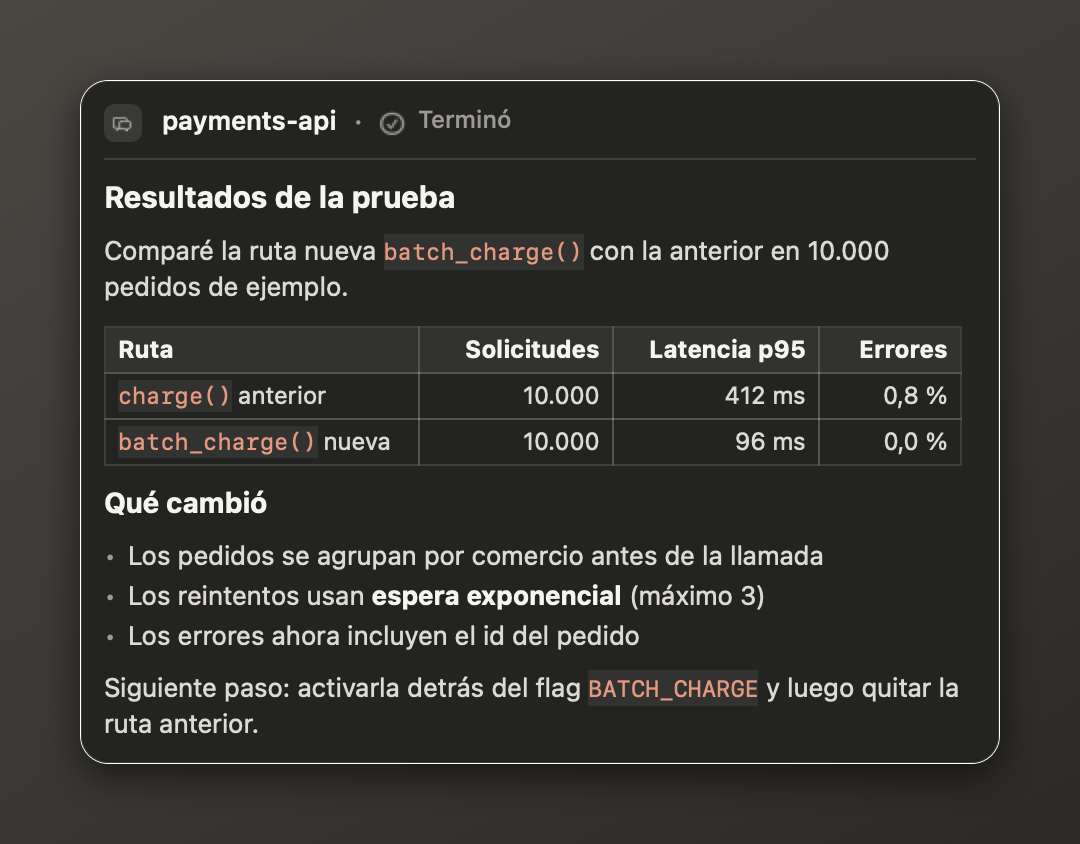
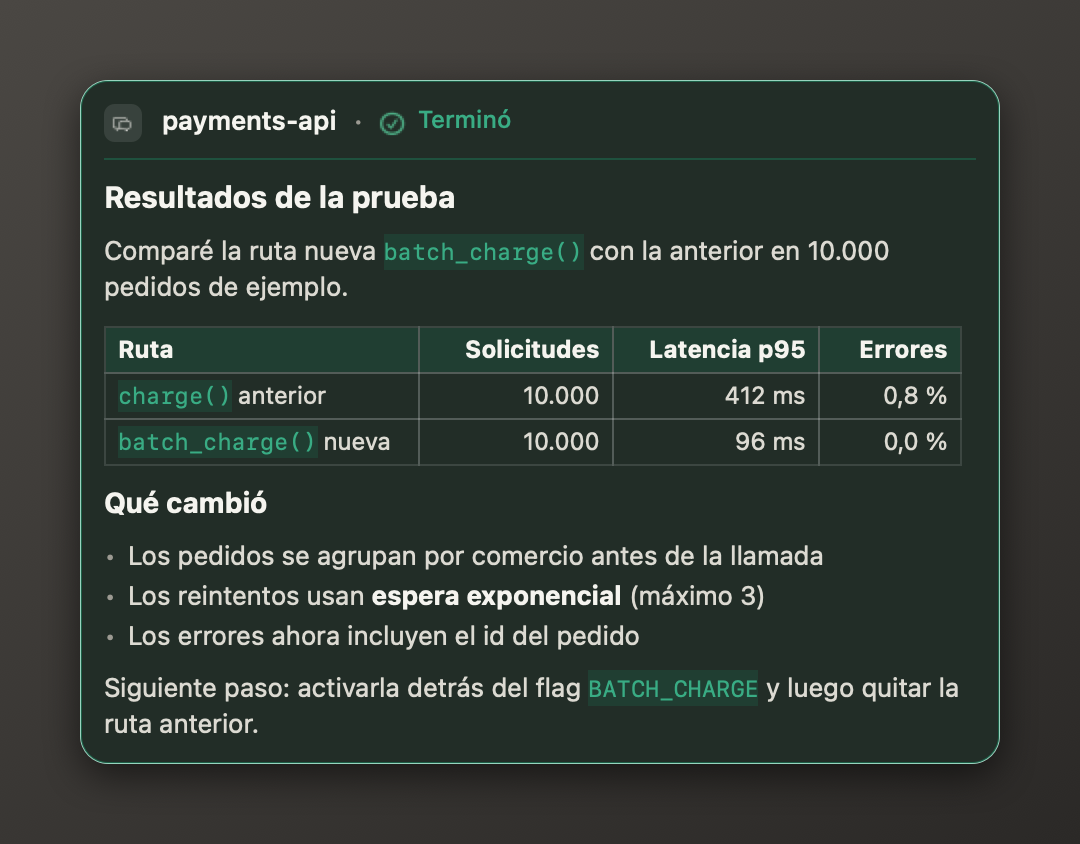
Popups: 'color' is the default style; the neutral look is now called 'neutral'
popup.style accepts color (default), neutral or mono; any other value, including the old 'default', means color. Sample pictures re-rendered in the color look; the style matrix is color / neutral / mono.

diff --git a/src/popup/main.swift b/src/popup/main.swift
@@ -154,7 +154,7 @@ struct Input {
     var fontSize = 13.0
     var stickyNeedsYou = true
     var isPrivate = false
-    var style = Style.standard
+    var style = Style.color
     var compactLines = 2
     var focus = FocusTarget()
     var transcriptSize: UInt64?
@@ -259,7 +259,7 @@ let increaseContrast = accessibility.accessibilityDisplayShouldIncreaseContrast
 let reduceMotion = accessibility.accessibilityDisplayShouldReduceMotion
 
 enum Style: String {
-    case standard = "default", color, mono
+    case color, neutral, mono
 }
 
 struct Palette {
@@ -332,7 +332,7 @@ struct Palette {
                                  dark: NSColor(hex: kind.hue.dark, alpha: 0.08)),
                 cardBorderWidth: (kind.needsYou ? 1.25 : 1) + extra)
 
-        case .standard:
+        case .neutral:
             let attentionLight = NSColor(hex: 0xB8532F)
             let attentionDark = NSColor(hex: 0xE8977A)
             let border = dynamic(light: NSColor(hex: 0x000000, alpha: borderAlpha),
@@ -788,7 +788,7 @@ final class Popup: NSObject, NSApplicationDelegate {
 
     var screen: NSScreen!
     var screenID = 0
-    var palette = Palette.make(style: .standard, kind: .done)
+    var palette = Palette.make(style: .color, kind: .done)
     var panel: Panel!
     var card: CardView!
     var summary: NSTextField!

diff --git a/src/menubar/main.swift b/src/menubar/main.swift
@@ -55,13 +55,13 @@ func safeName(_ s: String) -> String {
 
 // MARK: - Localization
 
-/// popup.style from config.json: "default", "color" or "mono". Mono means grayscale only.
+/// popup.style from config.json: "color" (the default), "neutral" or "mono". Mono means grayscale only.
 func configStyle() -> String {
     if let data = FileManager.default.contents(atPath: ccHome + "/config.json"),
        let o = (try? JSONSerialization.jsonObject(with: data)) as? [String: Any],
        let popup = o["popup"] as? [String: Any],
        let style = popup["style"] as? String { return style.lowercased() }
-    return "default"
+    return "color"
 }
 
 struct Strings {

diff --git a/tests/test_notify.py b/tests/test_notify.py
@@ -514,6 +514,26 @@ class SessionStateEvents(HookTestCase):
         self.assertEqual(self.session("sess-stop-0004")["project"], "Home")
 
 
+class PopupStyle(HookTestCase):
+    def style_of(self, config):
+        self.hook(config).handle("notification", payload("payload_permission.json"))
+        (popup,) = self.queued()
+        for name in os.listdir(os.path.join(self.home, "state", "queue")):  # empty the queue for the next call
+            os.remove(os.path.join(self.home, "state", "queue", name))
+        return popup["style"]
+
+    def test_default_config_is_color(self):
+        self.assertEqual(self.style_of({"language": "en"}), "color")
+
+    def test_neutral_and_mono_pass_through(self):
+        self.assertEqual(self.style_of({"language": "en", "popup": {"style": "neutral"}}), "neutral")
+        self.assertEqual(self.style_of({"language": "en", "popup": {"style": "mono"}}), "mono")
+
+    def test_unknown_values_fall_back_to_color(self):
+        for value in ("default", "nonsense", "", None, 3, ["mono"]):
+            self.assertEqual(self.style_of({"language": "en", "popup": {"style": value}}), "color", repr(value))
+
+
 class Housekeeping(HookTestCase):
     def test_old_queue_files_are_deleted(self):
         paths = notify.Paths(self.home)

diff --git a/hooks/notify.py b/hooks/notify.py
@@ -51,7 +51,7 @@ DEFAULT_CONFIG = {
         "sticky_needs_you": True,
         "font_size": 13,
         "private": False,
-        "style": "default",       # "default" | "color" | "mono"
+        "style": "color",         # "color" | "neutral" | "mono"; anything else means "color"
         "compact_lines": 2,       # lines shown by older popups in the stack
     },
     "sounds": {
@@ -713,7 +713,7 @@ class Hook(object):
             "max_height_ratio": popup_cfg["max_height_ratio"], "max_stacked": popup_cfg["max_stacked"],
             "sticky_needs_you": popup_cfg["sticky_needs_you"], "font_size": popup_cfg["font_size"],
             "private": private,
-            "style": popup_cfg["style"] if popup_cfg["style"] in ("default", "color", "mono") else "default",
+            "style": popup_cfg["style"] if popup_cfg["style"] in ("color", "neutral", "mono") else "color",
             "compact_lines": popup_cfg["compact_lines"],
         }
         subtitle = tr(self.lang, "label_" + kind)

diff --git a/README.md b/README.md
@@ -37,7 +37,7 @@ session, and a menu bar icon tracks all your sessions. Local only, built on Clau
 | | Feature | In one line |
 |---|---|---|
 | 1 | **Popups** | Claude's last message, rendered as Markdown, when it finishes, asks permission, asks a question, or an agent needs you. |
-| 2 | **Styles** | `default`, `color` (one hue per kind) or `mono` (grayscale). |
+| 2 | **Styles** | `color` (one hue per kind, the default), `neutral` or `mono` (grayscale). |
 | 3 | **Long messages and stacking** | Long messages scroll; older popups shrink to two lines. |
 | 4 | **Jump to the terminal** | Click → the right VS Code window and the exact integrated terminal. |
 | 5 | **Menu bar** | Every session at a glance: needs you · wrote to you · thinking. |
@@ -52,28 +52,28 @@ session, and a menu bar icon tracks all your sessions. Local only, built on Clau
 
 ## 1. Popups
 
-A translucent card at the top-right of your screen. Each kind of message has its own icon and label. The ones that
-**need you** (permission, question, agent) are tinted, have a thin full border, and **stay until you answer**.
+A translucent card at the top-right of your screen. Each kind of message has its own icon, label and hue. The ones that
+**need you** (permission, question, agent) get a stronger border and **stay until you answer**.
 "Done" fades after 60 s (paused while you hover or are away).
 
 | Done | Needs permission |
 |---|---|
-| <picture><source media="(prefers-color-scheme: dark)" srcset="docs/img/popup-style-default-done-dark.png"><img src="docs/img/popup-style-default-done-light.png" width="400" alt="Done popup with a heading, a table and a list"></picture> | <picture><source media="(prefers-color-scheme: dark)" srcset="docs/img/popup-style-default-permission-dark.png"><img src="docs/img/popup-style-default-permission-light.png" width="400" alt="Popup asking permission to run a Bash command"></picture> |
+| <picture><source media="(prefers-color-scheme: dark)" srcset="docs/img/popup-style-color-done-dark.png"><img src="docs/img/popup-style-color-done-light.png" width="400" alt="Done popup with a heading, a table and a list"></picture> | <picture><source media="(prefers-color-scheme: dark)" srcset="docs/img/popup-style-color-permission-dark.png"><img src="docs/img/popup-style-color-permission-light.png" width="400" alt="Popup asking permission to run a Bash command"></picture> |
 | **Question** | **A background agent asks** |
-| <picture><source media="(prefers-color-scheme: dark)" srcset="docs/img/popup-style-default-question-dark.png"><img src="docs/img/popup-style-default-question-light.png" width="400" alt="Popup where Claude asks which database to use"></picture> | <picture><source media="(prefers-color-scheme: dark)" srcset="docs/img/popup-style-default-agent-dark.png"><img src="docs/img/popup-style-default-agent-light.png" width="400" alt="Popup where a reviewer agent asks for a decision"></picture> |
+| <picture><source media="(prefers-color-scheme: dark)" srcset="docs/img/popup-style-color-question-dark.png"><img src="docs/img/popup-style-color-question-light.png" width="400" alt="Popup where Claude asks which database to use"></picture> | <picture><source media="(prefers-color-scheme: dark)" srcset="docs/img/popup-style-color-agent-dark.png"><img src="docs/img/popup-style-color-agent-light.png" width="400" alt="Popup where a reviewer agent asks for a decision"></picture> |
 
 Renders headings, **bold**, *italics*, `code`, code blocks, lists, quotes and real tables with aligned columns.
 Images here follow your GitHub light/dark theme; the popup follows macOS.
 
 ## 2. Styles
 
-Choose with `"popup": { "style": "default" }` in the [config](#configure).
+Choose with `"popup": { "style": "color" }` in the [config](#configure).
 
-| `default` | `color` | `mono` |
+| `color` (default) | `neutral` | `mono` |
 |---|---|---|
-| <picture><source media="(prefers-color-scheme: dark)" srcset="docs/img/popup-style-default-permission-dark.png"><img src="docs/img/popup-style-default-permission-light.png" width="280" alt="Default style, permission"></picture> | <picture><source media="(prefers-color-scheme: dark)" srcset="docs/img/popup-style-color-permission-dark.png"><img src="docs/img/popup-style-color-permission-light.png" width="280" alt="Color style, permission: orange tint"></picture> | <picture><source media="(prefers-color-scheme: dark)" srcset="docs/img/popup-style-mono-permission-dark.png"><img src="docs/img/popup-style-mono-permission-light.png" width="280" alt="Mono style, permission: grayscale"></picture> |
-| <picture><source media="(prefers-color-scheme: dark)" srcset="docs/img/popup-style-default-done-dark.png"><img src="docs/img/popup-style-default-done-light.png" width="280" alt="Default style, done"></picture> | <picture><source media="(prefers-color-scheme: dark)" srcset="docs/img/popup-style-color-done-dark.png"><img src="docs/img/popup-style-color-done-light.png" width="280" alt="Color style, done: green tint"></picture> | <picture><source media="(prefers-color-scheme: dark)" srcset="docs/img/popup-style-mono-done-dark.png"><img src="docs/img/popup-style-mono-done-light.png" width="280" alt="Mono style, done: grayscale"></picture> |
-| Neutral card; only messages that need you get the attention color. | One hue per kind: green done, orange permission, blue question, violet agent. | Grayscale only; urgency shows through a filled icon, bold label and stronger border. |
+| <picture><source media="(prefers-color-scheme: dark)" srcset="docs/img/popup-style-color-permission-dark.png"><img src="docs/img/popup-style-color-permission-light.png" width="280" alt="Color style, permission: orange tint"></picture> | <picture><source media="(prefers-color-scheme: dark)" srcset="docs/img/popup-style-neutral-permission-dark.png"><img src="docs/img/popup-style-neutral-permission-light.png" width="280" alt="Neutral style, permission"></picture> | <picture><source media="(prefers-color-scheme: dark)" srcset="docs/img/popup-style-mono-permission-dark.png"><img src="docs/img/popup-style-mono-permission-light.png" width="280" alt="Mono style, permission: grayscale"></picture> |
+| <picture><source media="(prefers-color-scheme: dark)" srcset="docs/img/popup-style-color-done-dark.png"><img src="docs/img/popup-style-color-done-light.png" width="280" alt="Color style, done: green tint"></picture> | <picture><source media="(prefers-color-scheme: dark)" srcset="docs/img/popup-style-neutral-done-dark.png"><img src="docs/img/popup-style-neutral-done-light.png" width="280" alt="Neutral style, done"></picture> | <picture><source media="(prefers-color-scheme: dark)" srcset="docs/img/popup-style-mono-done-dark.png"><img src="docs/img/popup-style-mono-done-light.png" width="280" alt="Mono style, done: grayscale"></picture> |
+| One hue per kind: green done, orange permission, blue question, violet agent. | Neutral card; only messages that need you get the attention color. | Grayscale only; urgency shows through a filled icon, bold label and stronger border. |
 
 ## 3. Long messages and several at once
 
@@ -201,7 +201,7 @@ all). Changes apply from the next notification.
 ```json
 {
   "language": "auto",
-  "popup":  { "style": "default", "seconds": 60, "width": 460, "max_height_ratio": 0.6,
+  "popup":  { "style": "color", "seconds": 60, "width": 460, "max_height_ratio": 0.6,
               "compact_lines": 2, "font_size": 13, "sticky_needs_you": true, "private": false },
   "sounds": {
     "done":       { "sound": "Glass",     "volume": 0.5, "only_when_away": true, "min_turn_seconds": 15 },
@@ -217,7 +217,7 @@ all). Changes apply from the next notification.
 | Group | Key | What it does |
 |---|---|---|
 | General | `language` | `auto` (follows macOS), `en` or `es`. |
-| Popup look | `style` | `default`, `color` or `mono`. |
+| Popup look | `style` | `color` (default), `neutral` or `mono`. Anything else falls back to `color`. |
 | | `width`, `font_size` | Card width (pt) and text size. |
 | | `max_height_ratio` | Fraction of the screen height before the text scrolls. |
 | | `compact_lines` | Lines kept by older popups in the stack. |

diff --git a/README.es.md b/README.es.md
@@ -37,7 +37,7 @@ VS Code** de esa sesión, y un ícono en la barra de menú sigue todas tus sesio
 | | Función | En una línea |
 |---|---|---|
 | 1 | **Avisos** | El último mensaje de Claude, con formato, cuando termina, pide permiso, pregunta algo o un agente te necesita. |
-| 2 | **Estilos** | `default`, `color` (un color por tipo) o `mono` (grises). |
+| 2 | **Estilos** | `color` (un color por tipo, por defecto), `neutral` o `mono` (grises). |
 | 3 | **Mensajes largos y pila** | Los largos tienen scroll; los anteriores se achican a dos líneas. |
 | 4 | **Ir a la terminal** | Un clic → la ventana correcta de VS Code y la terminal exacta. |
 | 5 | **Barra de menú** | Todas las sesiones de un vistazo: te necesita · te escribió · pensando. |
@@ -52,28 +52,28 @@ VS Code** de esa sesión, y un ícono en la barra de menú sigue todas tus sesio
 
 ## 1. Avisos
 
-Una tarjeta translúcida arriba a la derecha. Cada tipo de mensaje tiene su ícono y su etiqueta. Los que **te
-necesitan** (permiso, pregunta, agente) llevan color y un borde fino completo, y **se quedan hasta que respondes**.
+Una tarjeta translúcida arriba a la derecha. Cada tipo de mensaje tiene su ícono, su etiqueta y su color. Los que **te
+necesitan** (permiso, pregunta, agente) llevan un borde más marcado y **se quedan hasta que respondes**.
 Los de "terminó" se van a los 60 s (la cuenta se pausa si tienes el mouse encima o no estás frente a la compu).
 
 | Terminó | Pide permiso |
 |---|---|
 | <picture><source media="(prefers-color-scheme: dark)" srcset="docs/img/popup-table-es-dark.png"><img src="docs/img/popup-table-es-light.png" width="400" alt="Aviso en español: terminó, con un título y una tabla"></picture> | <picture><source media="(prefers-color-scheme: dark)" srcset="docs/img/popup-permission-es-dark.png"><img src="docs/img/popup-permission-es-light.png" width="400" alt="Aviso en español: pide permiso para correr un comando de Bash"></picture> |
 | **Pregunta** | **Un agente en segundo plano pregunta** |
-| <picture><source media="(prefers-color-scheme: dark)" srcset="docs/img/popup-style-default-question-dark.png"><img src="docs/img/popup-style-default-question-light.png" width="400" alt="Aviso donde Claude pregunta qué base de datos usar"></picture> | <picture><source media="(prefers-color-scheme: dark)" srcset="docs/img/popup-style-default-agent-dark.png"><img src="docs/img/popup-style-default-agent-light.png" width="400" alt="Aviso donde un agente revisor pide una decisión"></picture> |
+| <picture><source media="(prefers-color-scheme: dark)" srcset="docs/img/popup-style-color-question-dark.png"><img src="docs/img/popup-style-color-question-light.png" width="400" alt="Aviso donde Claude pregunta qué base de datos usar"></picture> | <picture><source media="(prefers-color-scheme: dark)" srcset="docs/img/popup-style-color-agent-dark.png"><img src="docs/img/popup-style-color-agent-light.png" width="400" alt="Aviso donde un agente revisor pide una decisión"></picture> |
 
 Muestra títulos, **negritas**, *cursivas*, `código`, bloques de código, listas, citas y tablas de verdad con columnas
 alineadas. Las imágenes siguen el tema claro u oscuro de tu GitHub; el aviso sigue el de macOS.
 
 ## 2. Estilos
 
-Se elige con `"popup": { "style": "default" }` en la [configuración](#configurar).
+Se elige con `"popup": { "style": "color" }` en la [configuración](#configurar).
 
-| `default` | `color` | `mono` |
+| `color` (por defecto) | `neutral` | `mono` |
 |---|---|---|
-| <picture><source media="(prefers-color-scheme: dark)" srcset="docs/img/popup-style-default-permission-dark.png"><img src="docs/img/popup-style-default-permission-light.png" width="280" alt="Estilo default, pide permiso"></picture> | <picture><source media="(prefers-color-scheme: dark)" srcset="docs/img/popup-style-color-permission-dark.png"><img src="docs/img/popup-style-color-permission-light.png" width="280" alt="Estilo color, pide permiso: tinte naranja"></picture> | <picture><source media="(prefers-color-scheme: dark)" srcset="docs/img/popup-style-mono-permission-dark.png"><img src="docs/img/popup-style-mono-permission-light.png" width="280" alt="Estilo mono, pide permiso: grises"></picture> |
-| <picture><source media="(prefers-color-scheme: dark)" srcset="docs/img/popup-style-default-done-dark.png"><img src="docs/img/popup-style-default-done-light.png" width="280" alt="Estilo default, terminó"></picture> | <picture><source media="(prefers-color-scheme: dark)" srcset="docs/img/popup-style-color-done-dark.png"><img src="docs/img/popup-style-color-done-light.png" width="280" alt="Estilo color, terminó: tinte verde"></picture> | <picture><source media="(prefers-color-scheme: dark)" srcset="docs/img/popup-style-mono-done-dark.png"><img src="docs/img/popup-style-mono-done-light.png" width="280" alt="Estilo mono, terminó: grises"></picture> |
-| Tarjeta neutra; solo lo que te necesita lleva el color de atención. | Un color por tipo: verde terminó, naranja permiso, azul pregunta, violeta agente. | Solo grises; lo urgente se nota por el ícono relleno, la negrita y un borde más marcado. |
+| <picture><source media="(prefers-color-scheme: dark)" srcset="docs/img/popup-style-color-permission-dark.png"><img src="docs/img/popup-style-color-permission-light.png" width="280" alt="Estilo color, pide permiso: tinte naranja"></picture> | <picture><source media="(prefers-color-scheme: dark)" srcset="docs/img/popup-style-neutral-permission-dark.png"><img src="docs/img/popup-style-neutral-permission-light.png" width="280" alt="Estilo neutral, pide permiso"></picture> | <picture><source media="(prefers-color-scheme: dark)" srcset="docs/img/popup-style-mono-permission-dark.png"><img src="docs/img/popup-style-mono-permission-light.png" width="280" alt="Estilo mono, pide permiso: grises"></picture> |
+| <picture><source media="(prefers-color-scheme: dark)" srcset="docs/img/popup-style-color-done-dark.png"><img src="docs/img/popup-style-color-done-light.png" width="280" alt="Estilo color, terminó: tinte verde"></picture> | <picture><source media="(prefers-color-scheme: dark)" srcset="docs/img/popup-style-neutral-done-dark.png"><img src="docs/img/popup-style-neutral-done-light.png" width="280" alt="Estilo neutral, terminó"></picture> | <picture><source media="(prefers-color-scheme: dark)" srcset="docs/img/popup-style-mono-done-dark.png"><img src="docs/img/popup-style-mono-done-light.png" width="280" alt="Estilo mono, terminó: grises"></picture> |
+| Un color por tipo: verde terminó, naranja permiso, azul pregunta, violeta agente. | Tarjeta neutra; solo lo que te necesita lleva el color de atención. | Solo grises; lo urgente se nota por el ícono relleno, la negrita y un borde más marcado. |
 
 ## 3. Mensajes largos y varios a la vez
 
@@ -202,7 +202,7 @@ las tiene todas). Los cambios se aplican desde el siguiente aviso.
 ```json
 {
   "language": "es",
-  "popup":  { "style": "default", "seconds": 60, "width": 460, "max_height_ratio": 0.6,
+  "popup":  { "style": "color", "seconds": 60, "width": 460, "max_height_ratio": 0.6,
               "compact_lines": 2, "font_size": 13, "sticky_needs_you": true, "private": false },
   "sounds": {
     "done":       { "sound": "Glass",     "volume": 0.5, "only_when_away": true, "min_turn_seconds": 15 },
@@ -218,7 +218,7 @@ las tiene todas). Los cambios se aplican desde el siguiente aviso.
 | Grupo | Clave | Qué hace |
 |---|---|---|
 | General | `language` | `auto` (sigue a macOS), `en` o `es`. |
-| Cómo se ve | `style` | `default`, `color` o `mono`. |
+| Cómo se ve | `style` | `color` (por defecto), `neutral` o `mono`. Cualquier otro valor se trata como `color`. |
 | | `width`, `font_size` | Ancho de la tarjeta (pt) y tamaño de letra. |
 | | `max_height_ratio` | Fracción del alto de la pantalla antes de que haya scroll. |
 | | `compact_lines` | Líneas que conservan los avisos anteriores de la pila. |

diff --git a/docs/gallery.md b/docs/gallery.md
@@ -47,39 +47,39 @@ All images are made from the real apps and scripts with fictional projects: popu
 
 ## Styles
 
-`"popup": { "style": "default" | "color" | "mono" }`
+`"popup": { "style": "color" | "neutral" | "mono" }` (default: `color`)
 
 ### Done
 
-| default | color | mono |
+| color (default) | neutral | mono |
 |---|---|---|
-| <img src="img/popup-style-default-done-light.png" width="280" alt="default style, Done, light"> | <img src="img/popup-style-color-done-light.png" width="280" alt="color style, Done, light"> | <img src="img/popup-style-mono-done-light.png" width="280" alt="mono style, Done, light"> |
-| <img src="img/popup-style-default-done-dark.png" width="280" alt="default style, Done, dark"> | <img src="img/popup-style-color-done-dark.png" width="280" alt="color style, Done, dark"> | <img src="img/popup-style-mono-done-dark.png" width="280" alt="mono style, Done, dark"> |
+| <img src="img/popup-style-color-done-light.png" width="280" alt="color style, Done, light"> | <img src="img/popup-style-neutral-done-light.png" width="280" alt="neutral style, Done, light"> | <img src="img/popup-style-mono-done-light.png" width="280" alt="mono style, Done, light"> |
+| <img src="img/popup-style-color-done-dark.png" width="280" alt="color style, Done, dark"> | <img src="img/popup-style-neutral-done-dark.png" width="280" alt="neutral style, Done, dark"> | <img src="img/popup-style-mono-done-dark.png" width="280" alt="mono style, Done, dark"> |
 
 ### Needs permission
 
-| default | color | mono |
+| color (default) | neutral | mono |
 |---|---|---|
-| <img src="img/popup-style-default-permission-light.png" width="280" alt="default style, Needs permission, light"> | <img src="img/popup-style-color-permission-light.png" width="280" alt="color style, Needs permission, light"> | <img src="img/popup-style-mono-permission-light.png" width="280" alt="mono style, Needs permission, light"> |
-| <img src="img/popup-style-default-permission-dark.png" width="280" alt="default style, Needs permission, dark"> | <img src="img/popup-style-color-permission-dark.png" width="280" alt="color style, Needs permission, dark"> | <img src="img/popup-style-mono-permission-dark.png" width="280" alt="mono style, Needs permission, dark"> |
+| <img src="img/popup-style-color-permission-light.png" width="280" alt="color style, Needs permission, light"> | <img src="img/popup-style-neutral-permission-light.png" width="280" alt="neutral style, Needs permission, light"> | <img src="img/popup-style-mono-permission-light.png" width="280" alt="mono style, Needs permission, light"> |
+| <img src="img/popup-style-color-permission-dark.png" width="280" alt="color style, Needs permission, dark"> | <img src="img/popup-style-neutral-permission-dark.png" width="280" alt="neutral style, Needs permission, dark"> | <img src="img/popup-style-mono-permission-dark.png" width="280" alt="mono style, Needs permission, dark"> |
 
 ### Question
 
-| default | color | mono |
+| color (default) | neutral | mono |
 |---|---|---|
-| <img src="img/popup-style-default-question-light.png" width="280" alt="default style, Question, light"> | <img src="img/popup-style-color-question-light.png" width="280" alt="color style, Question, light"> | <img src="img/popup-style-mono-question-light.png" width="280" alt="mono style, Question, light"> |
-| <img src="img/popup-style-default-question-dark.png" width="280" alt="default style, Question, dark"> | <img src="img/popup-style-color-question-dark.png" width="280" alt="color style, Question, dark"> | <img src="img/popup-style-mono-question-dark.png" width="280" alt="mono style, Question, dark"> |
+| <img src="img/popup-style-color-question-light.png" width="280" alt="color style, Question, light"> | <img src="img/popup-style-neutral-question-light.png" width="280" alt="neutral style, Question, light"> | <img src="img/popup-style-mono-question-light.png" width="280" alt="mono style, Question, light"> |
+| <img src="img/popup-style-color-question-dark.png" width="280" alt="color style, Question, dark"> | <img src="img/popup-style-neutral-question-dark.png" width="280" alt="neutral style, Question, dark"> | <img src="img/popup-style-mono-question-dark.png" width="280" alt="mono style, Question, dark"> |
 
 ### Agent asks
 
-| default | color | mono |
+| color (default) | neutral | mono |
 |---|---|---|
-| <img src="img/popup-style-default-agent-light.png" width="280" alt="default style, Agent asks, light"> | <img src="img/popup-style-color-agent-light.png" width="280" alt="color style, Agent asks, light"> | <img src="img/popup-style-mono-agent-light.png" width="280" alt="mono style, Agent asks, light"> |
-| <img src="img/popup-style-default-agent-dark.png" width="280" alt="default style, Agent asks, dark"> | <img src="img/popup-style-color-agent-dark.png" width="280" alt="color style, Agent asks, dark"> | <img src="img/popup-style-mono-agent-dark.png" width="280" alt="mono style, Agent asks, dark"> |
+| <img src="img/popup-style-color-agent-light.png" width="280" alt="color style, Agent asks, light"> | <img src="img/popup-style-neutral-agent-light.png" width="280" alt="neutral style, Agent asks, light"> | <img src="img/popup-style-mono-agent-light.png" width="280" alt="mono style, Agent asks, light"> |
+| <img src="img/popup-style-color-agent-dark.png" width="280" alt="color style, Agent asks, dark"> | <img src="img/popup-style-neutral-agent-dark.png" width="280" alt="neutral style, Agent asks, dark"> | <img src="img/popup-style-mono-agent-dark.png" width="280" alt="mono style, Agent asks, dark"> |
 
 ## Menu bar
 
-### Default style
+### Color and neutral styles
 
 <img src="img/menubar-light.png" width="420" alt="Menu bar with its menu open, light"> <img src="img/menubar-dark.png" width="420" alt="Menu bar with its menu open, dark">
 

diff --git a/docs/ARCHITECTURE.md b/docs/ARCHITECTURE.md
@@ -97,7 +97,7 @@ stripe on one side of the card).
   "transcript": "/path/x.jsonl", "transcript_size": 123456, "event_at": <epoch>,
   "language": "en", "sound": "Glass", "volume": 0.5, "only_when_away": true,
   "seconds": 60, "width": 460, "max_height_ratio": 0.6, "max_stacked": 4, "compact_lines": 2,
-  "sticky_needs_you": true, "font_size": 13, "private": false, "style": "default"
+  "sticky_needs_you": true, "font_size": 13, "private": false, "style": "color"
 }
 ```
 
@@ -183,9 +183,11 @@ These refine everything above. When in doubt, this section wins.
   also finds files in `~/Library/Sounds`) or an absolute path; `""` = silent.
 
 ### Styles (added after visual review)
-- `popup.style`: `"default"` (neutral card; needs-you kinds in the attention tint), `"color"` (one hue per kind —
-  done green, permission orange, question blue, agent violet — with a subtle full-surface tint and a thin full border),
+- `popup.style`: `"color"` (the default; one hue per kind — done green, permission orange, question blue, agent
+  violet — with a subtle full-surface tint and a thin full border), `"neutral"` (neutral card; needs-you kinds in the
+  attention tint),
   `"mono"` (grayscale only; needs-you kinds use a filled symbol, semibold label and a stronger full border).
+  Any other value, or a missing key, means `"color"` (validated in `hooks/notify.py`, and again in the popup app).
 - `popup.compact_lines` (default 2): lines shown by older popups in the stack.
 - Layout: header row (small icon · project · kind) separated from the body by a hairline rule; the body uses the
   full card width.
